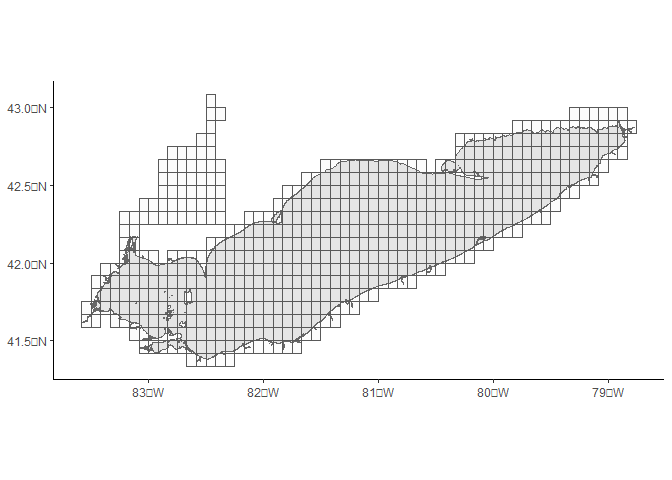
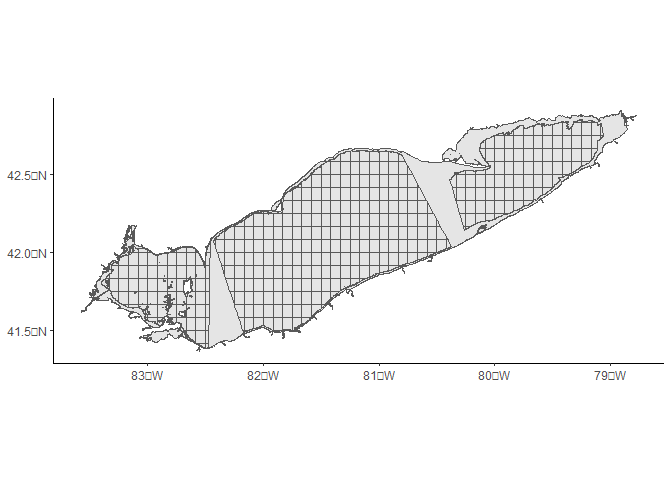
edits readme

diff --git a/README.md b/README.md
@@ -98,7 +98,7 @@ base_wbstrata
 ### 5 minute grid
 
 ``` r
-base_erieshore + geom_sf(data = shape_5mingrid, alpha = 0.1)
+base_erieshore + geom_sf(data = shape_5mingrid_surv, alpha = 0.1)
 ```
 
 <img src="man/figures/README-fivemingrid-1.png" width="60%" />
